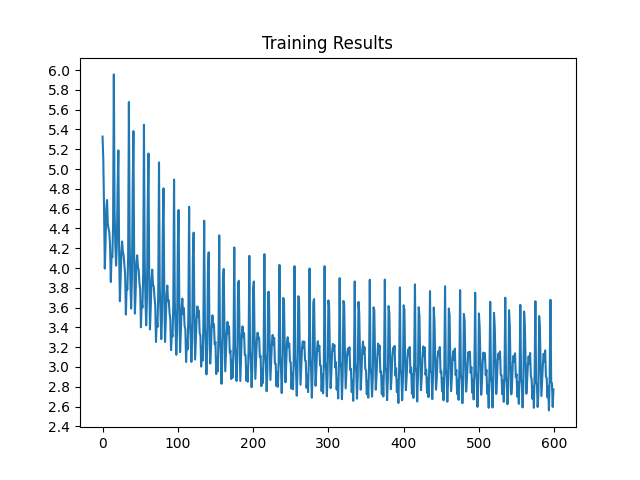
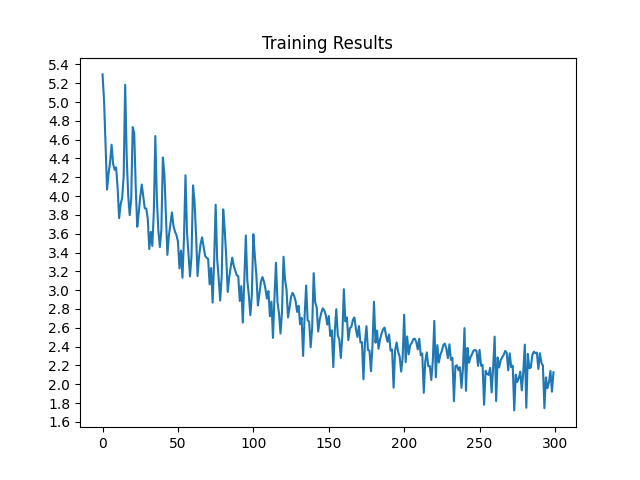
switched optimizer back to SGD

diff --git a/main.py b/main.py
@@ -120,13 +120,13 @@ def timeSince(since, percent):
     rs = es - s
     return '%s (- %s)' % (asMinutes(s), asMinutes(rs))
 
-def trainIters(encoder, decoder, epochs, print_every=1000, plot_every=100, learning_rate=0.001):
+def trainIters(encoder, decoder, epochs, print_every=1000, plot_every=100, learning_rate=0.01):
 
     plot_losses = []
 
 
-    encoder_optimizer = optim.Adam(encoder.parameters(), lr=learning_rate)
-    decoder_optimizer = optim.Adam(decoder.parameters(), lr=learning_rate)
+    encoder_optimizer = optim.SGD(encoder.parameters(), lr=learning_rate)
+    decoder_optimizer = optim.SGD(decoder.parameters(), lr=learning_rate)
     training_pairs = [tensorFromPair(pair) for pair in pairs]
     criterion = nn.NLLLoss()
 
@@ -227,7 +227,7 @@ def evaluateRandomly(encoder, decoder, n=10):
         print('')
 
 
-def showAttention(input_sentence, output_words, attentions):
+def showAttention(input_sentence, output_words, attentions, fig_name):
     fig = plt.figure()
     ax = fig.add_subplot(111)
     cax = ax.matshow(attentions.numpy(), cmap='bone')
@@ -240,14 +240,16 @@ def showAttention(input_sentence, output_words, attentions):
     ax.xaxis.set_major_locator(ticker.MultipleLocator(1))
     ax.yaxis.set_major_locator(ticker.MultipleLocator(1))
 
-    plt.show()
+    plt.savefig(fig_name + ".png")
 
-def evaluateAndShowAttention(input_sentence):
+    plt.close("all")
+
+def evaluateAndShowAttention(input_sentence, encoder, decoder, fig_name):
     output_words, attentions = evaluate(
-        encoder1, attn_decoder1, input_sentence)
+        encoder, decoder, input_sentence)
     print('input =', input_sentence)
     print('output =', ' '.join(output_words))
-    showAttention(input_sentence, output_words, attentions)
+    showAttention(input_sentence, output_words, attentions, fig_name)
 
 # Press the green button in the gutter to run the script.
 if __name__ == '__main__':
@@ -270,7 +272,7 @@ if __name__ == '__main__':
         encoder1 = EncoderRNN.EncoderRNN(input_lang.n_words, hidden_size).to("cuda")
         attn_decoder1 = DecoderRNN.AttnDecoderRNN(hidden_size, output_lang.n_words, dropout_p=0.1).to("cuda")
 
-        epochs = 30
+        epochs = 15
 
         trainIters(encoder1, attn_decoder1, epochs, print_every=10000, plot_every=1000)
         evaluateRandomly(encoder1, attn_decoder1)
@@ -285,8 +287,8 @@ if __name__ == '__main__':
         encoder.eval()
         attn_decoder.eval()
         evaluateRandomly(encoder, attn_decoder)
-        evaluateAndShowAttention(pairs[0])
-        evaluateAndShowAttention(pairs[1])
-        evaluateAndShowAttention(pairs[2])
-        evaluateAndShowAttention(pairs[3])
+        evaluateAndShowAttention(random.choice(pairs)[0], encoder, attn_decoder, "attention1")
+        evaluateAndShowAttention(random.choice(pairs)[0], encoder, attn_decoder, "attention2")
+        evaluateAndShowAttention(random.choice(pairs)[0], encoder, attn_decoder, "attention3")
+        evaluateAndShowAttention(random.choice(pairs)[0], encoder, attn_decoder, "attention4")
         calculate_bleu_score(encoder, attn_decoder)
